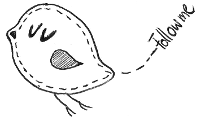
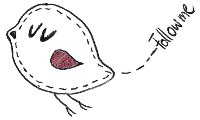
Image-Hover-Effekt via CSS3-Filter realisiert.

Changed region(s): [[0.24, 0.425, 0.39, 0.575]]

diff --git a/strategchen/templates/base.html b/strategchen/templates/base.html
@@ -48,17 +48,19 @@
   <link href={% static "css/uni-form.css" %} media="screen" rel="stylesheet" type="text/css" />
   <link href={% static "css/style.css" %} media="screen" rel="stylesheet" type="text/css" />
 
-  <!--
-  <link href={% static "img/favicon.png" %} rel="shortcut icon"  type="image/png" />
-  -->
-
   <meta name="google-site-verification" content="pcwgx3d2EeVraU_8jAQkXNuHbMQ9FkTzGp0qfhE2cI0" />
 
   <script src={% static "js/jquery-1.4.2.min.js" %} type="text/javascript"></script>
-  <script src={% static "js/jquery.imghover-1.1rc.js" %} type="text/javascript"></script>
   <script type="text/javascript">
   $(document).ready(function(){
-    $('img.hover').imghover({suffix: '_hover'});
+    $('img.hover').css("-webkit-filter","saturate(0.0)");
+    $('img.hover').hover(
+        function() {
+            $(this).css("-webkit-filter","saturate(1.2)");
+        }, function() {
+            $(this).css("-webkit-filter","saturate(0.0)");
+        }
+    );
   });
   </script>
 
